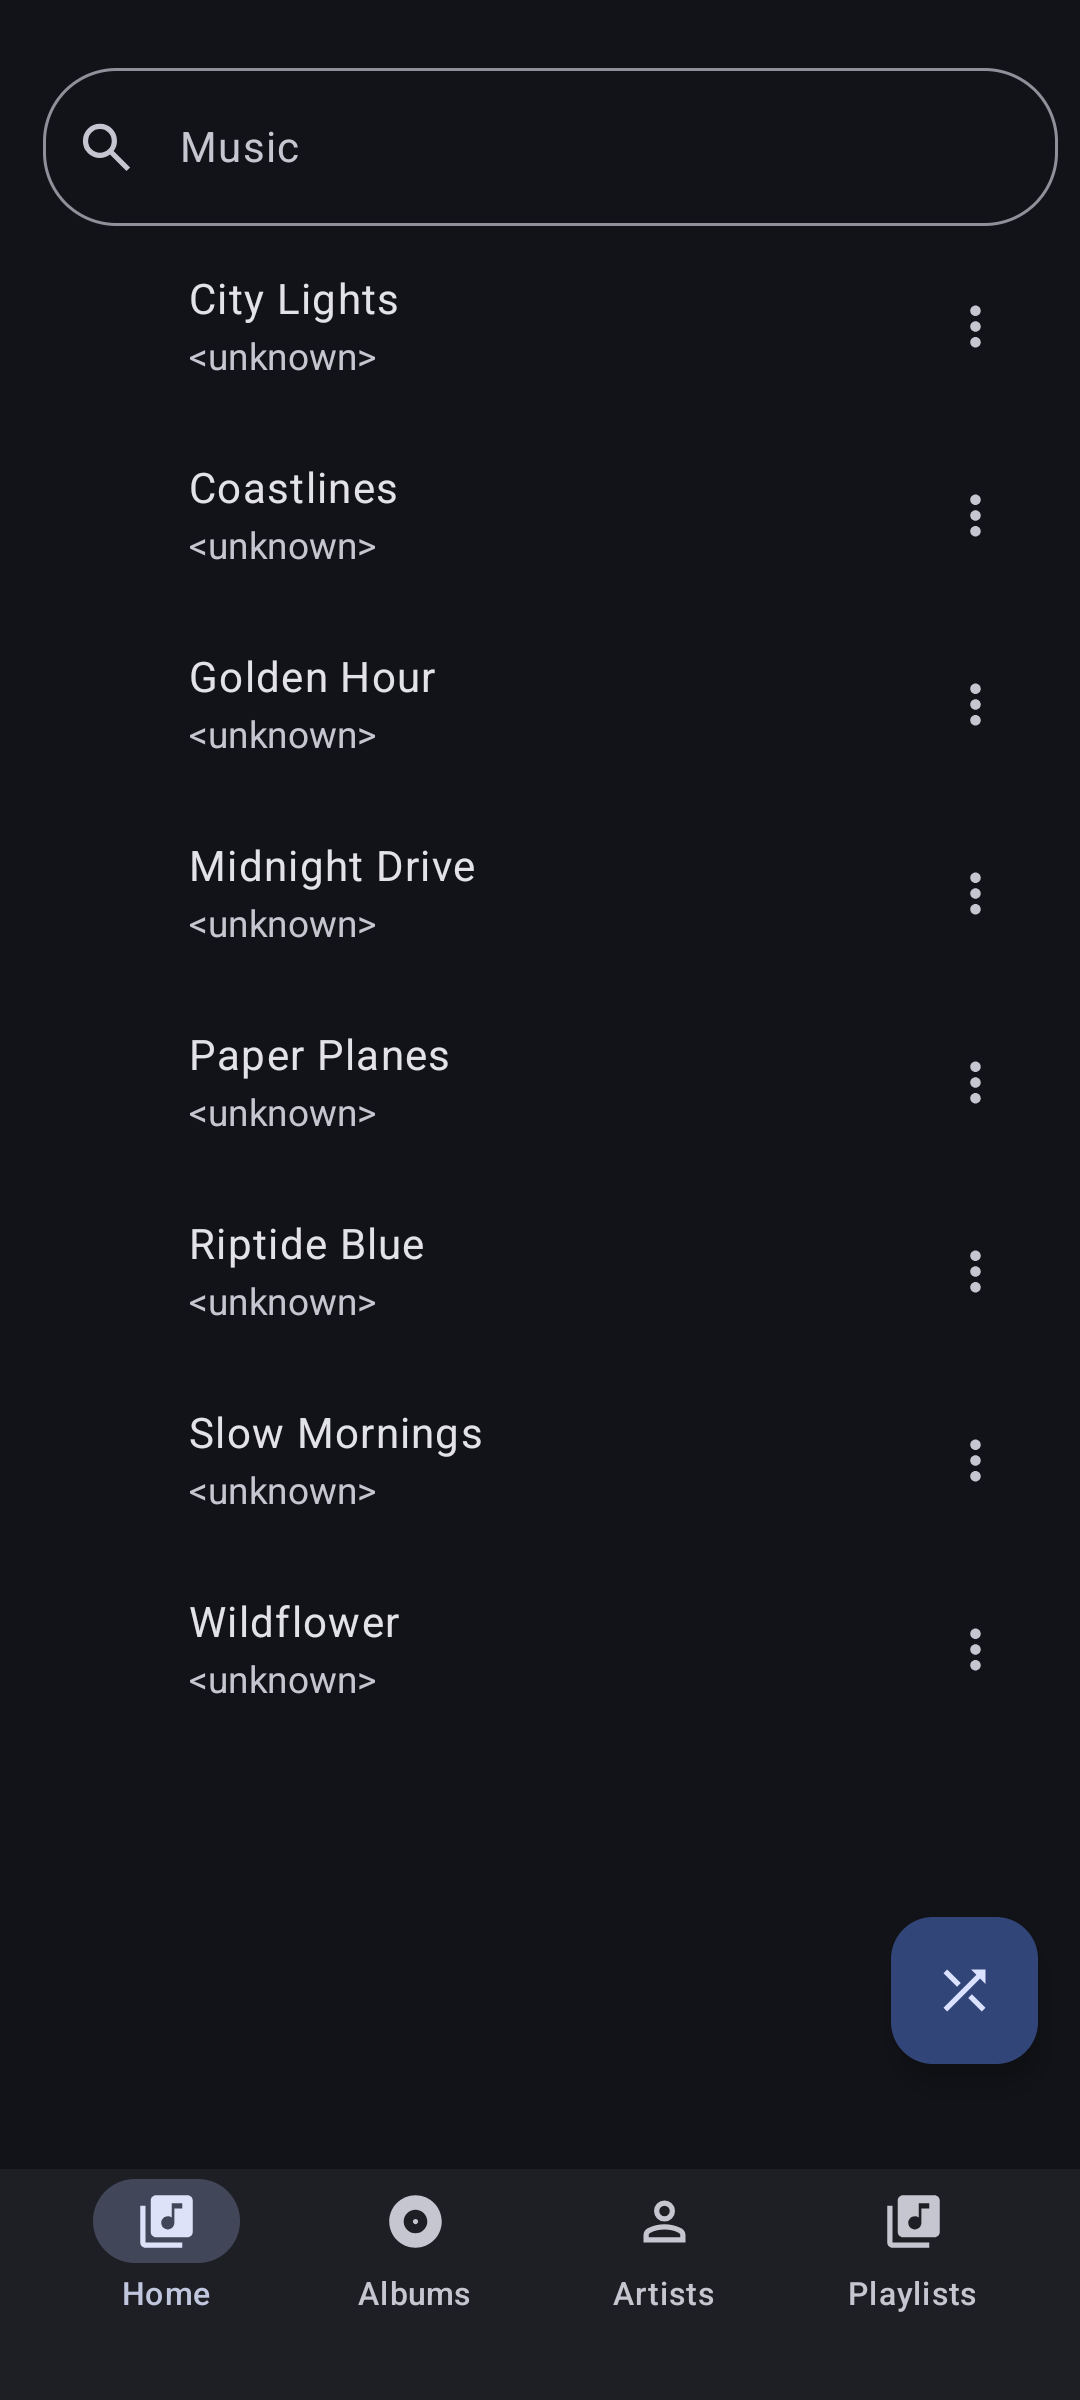
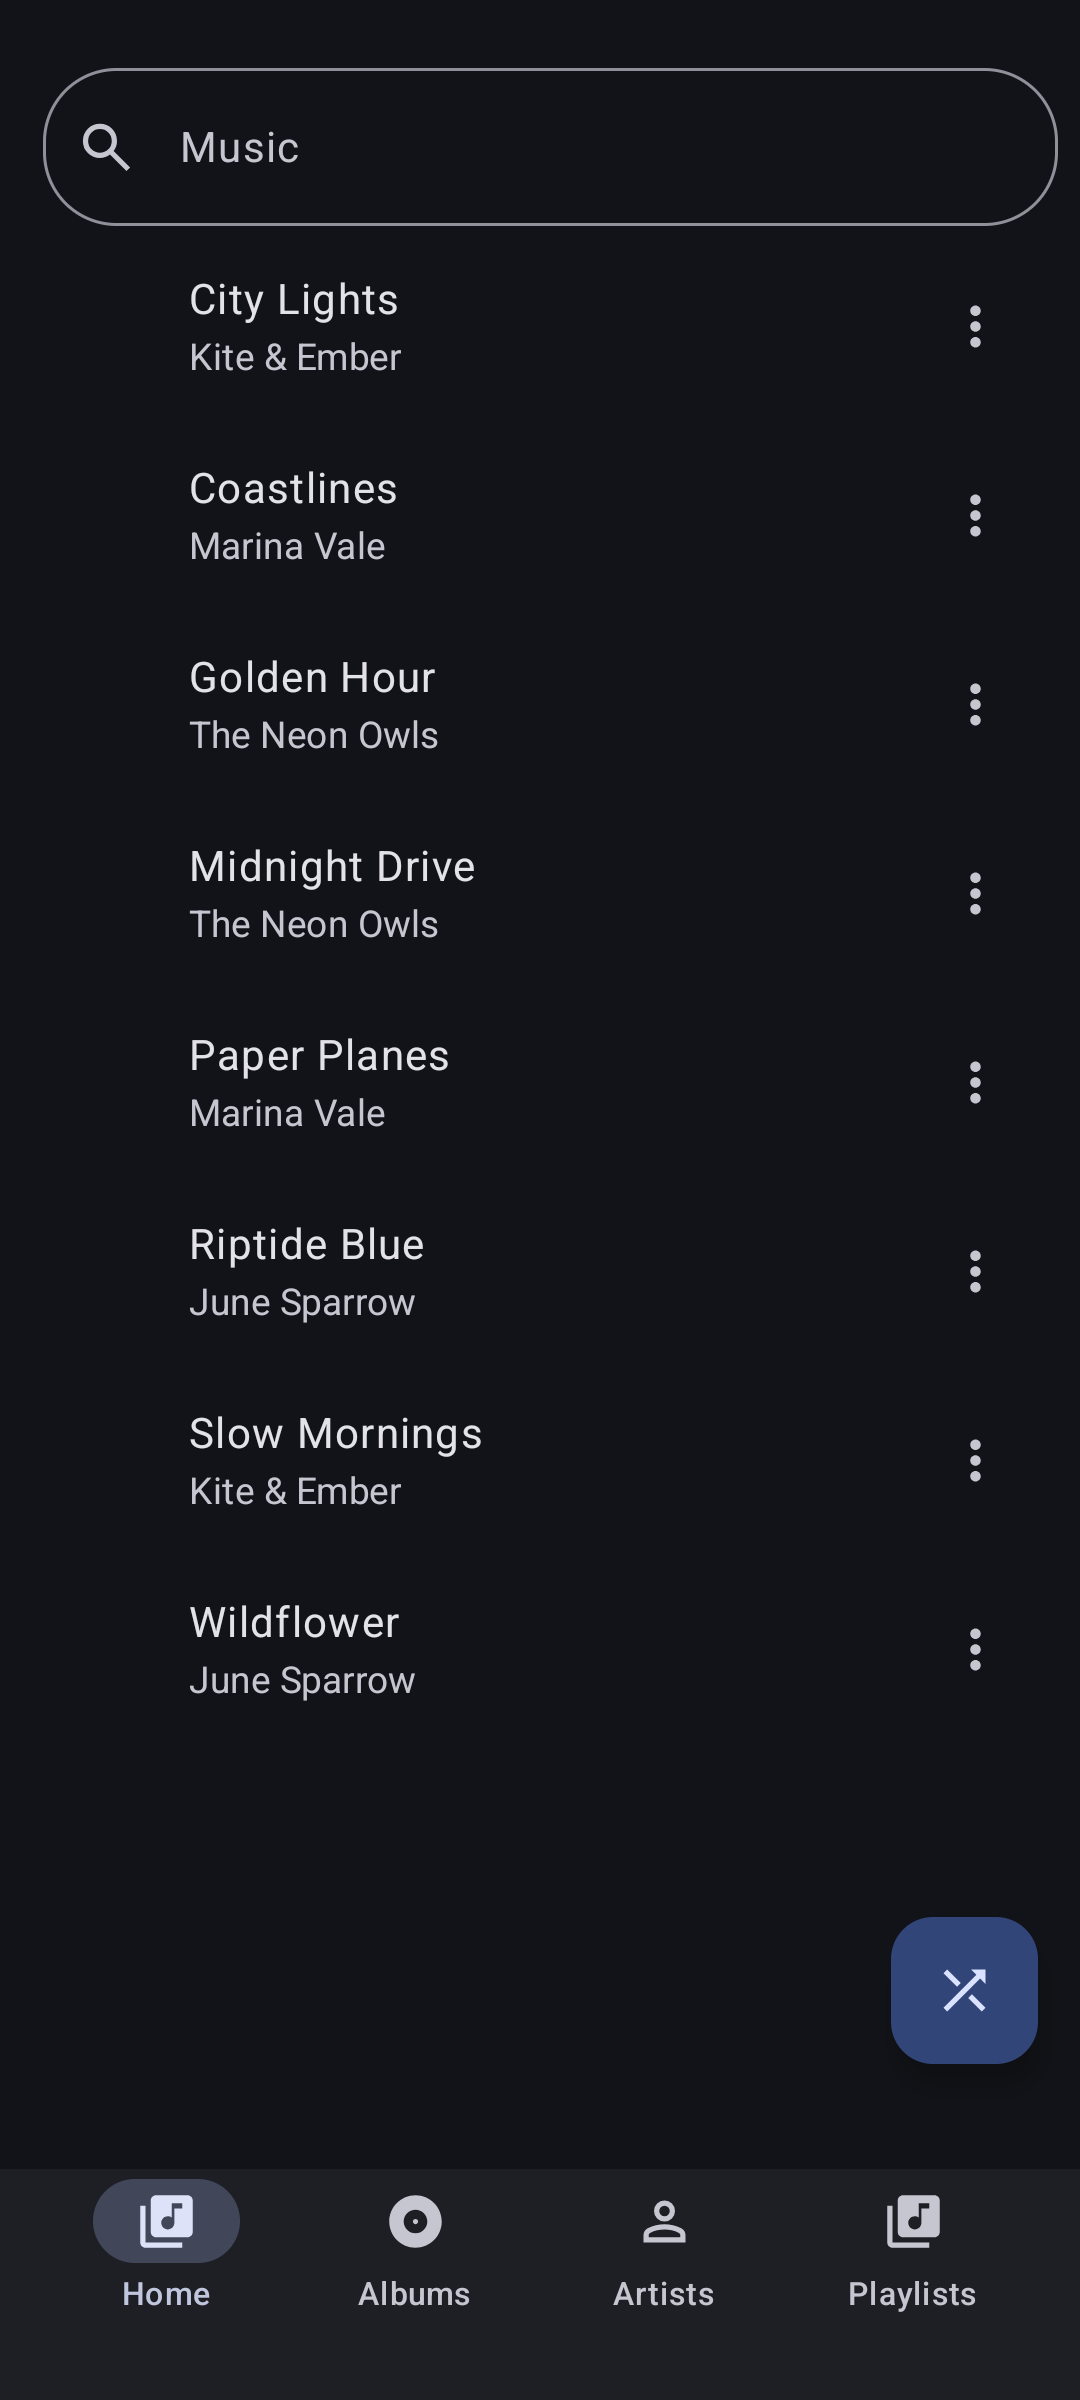
music: updated automated screenshot generation

diff --git a/music/src/androidTest/java/com/vayunmathur/music/MetadataScreenshots.kt b/music/src/androidTest/java/com/vayunmathur/music/MetadataScreenshots.kt
@@ -1,11 +1,15 @@
 package com.vayunmathur.music
 
 import android.content.ContentValues
+import android.media.MediaScannerConnection
+import android.os.Environment
 import android.provider.MediaStore
 import androidx.compose.ui.graphics.asAndroidBitmap
 import androidx.compose.ui.test.captureToImage
 import androidx.compose.ui.test.junit4.createEmptyComposeRule
+import androidx.compose.ui.test.onNodeWithText
 import androidx.compose.ui.test.onRoot
+import androidx.compose.ui.test.performClick
 import androidx.test.core.app.ActivityScenario
 import androidx.test.ext.junit.runners.AndroidJUnit4
 import androidx.test.platform.app.InstrumentationRegistry
@@ -16,13 +20,15 @@ import kotlinx.coroutines.runBlocking
 import org.junit.Rule
 import org.junit.Test
 import org.junit.runner.RunWith
+import java.io.ByteArrayOutputStream
 import java.io.File
-import java.nio.ByteBuffer
-import java.nio.ByteOrder
+import java.util.concurrent.CountDownLatch
+import java.util.concurrent.TimeUnit
 
 /**
- * Screenshot generator driven by `:music:metadata`. Seeds a few short WAV tracks (with
- * title/artist/album metadata) into MediaStore, indexes them, then captures the library.
+ * Screenshot generator driven by `:music:metadata`. Seeds a few short, TAGGED MP3s (ID3v2
+ * title/artist/album) into MediaStore so the scanner surfaces real metadata, indexes them,
+ * then captures the Songs / Albums / Artists tabs.
  */
 @RunWith(AndroidJUnit4::class)
 class MetadataScreenshots {
@@ -46,18 +52,53 @@ class MetadataScreenshots {
         }
     }
 
-    /** A valid 1-second silent mono 16-bit PCM WAV so MediaStore treats it as playable audio. */
-    private fun silentWav(): ByteArray {
-        val sampleRate = 8000
-        val numSamples = sampleRate // 1 second
-        val dataSize = numSamples * 2
-        val buf = ByteBuffer.allocate(44 + dataSize).order(ByteOrder.LITTLE_ENDIAN)
-        buf.put("RIFF".toByteArray()); buf.putInt(36 + dataSize); buf.put("WAVE".toByteArray())
-        buf.put("fmt ".toByteArray()); buf.putInt(16); buf.putShort(1); buf.putShort(1)
-        buf.putInt(sampleRate); buf.putInt(sampleRate * 2); buf.putShort(2); buf.putShort(16)
-        buf.put("data".toByteArray()); buf.putInt(dataSize)
-        // data left as zeros (silence)
-        return buf.array()
+    // --- Tagged MP3 synthesis -------------------------------------------------
+
+    private fun syncsafe(n: Int) = byteArrayOf(
+        ((n ushr 21) and 0x7F).toByte(),
+        ((n ushr 14) and 0x7F).toByte(),
+        ((n ushr 7) and 0x7F).toByte(),
+        (n and 0x7F).toByte(),
+    )
+
+    private fun be32(n: Int) = byteArrayOf(
+        (n ushr 24).toByte(), (n ushr 16).toByte(), (n ushr 8).toByte(), n.toByte(),
+    )
+
+    /** An ID3v2.3 text frame (ISO-8859-1 encoding byte + ASCII text). */
+    private fun textFrame(id: String, text: String): ByteArray {
+        val data = byteArrayOf(0x00) + text.toByteArray(Charsets.ISO_8859_1)
+        return id.toByteArray(Charsets.US_ASCII) + be32(data.size) + byteArrayOf(0, 0) + data
+    }
+
+    /**
+     * A minimal valid MP3: an ID3v2.3 tag (so MediaStore's scanner reads real
+     * title/artist/album) followed by ~1s of silent MPEG-1 Layer III frames
+     * (128 kbps, 44.1 kHz, stereo). All-zero frame bodies decode to silence.
+     */
+    private fun taggedMp3(title: String, artist: String, album: String): ByteArray {
+        val tagBody = textFrame("TIT2", title) + textFrame("TPE1", artist) + textFrame("TALB", album)
+        val id3 = "ID3".toByteArray(Charsets.US_ASCII) +
+            byteArrayOf(0x03, 0x00, 0x00) + syncsafe(tagBody.size) + tagBody
+
+        val frameHeader = byteArrayOf(0xFF.toByte(), 0xFB.toByte(), 0x90.toByte(), 0x00)
+        val frame = frameHeader + ByteArray(FRAME_SIZE - frameHeader.size)
+        val out = ByteArrayOutputStream()
+        out.write(id3)
+        repeat(NUM_FRAMES) { out.write(frame) }
+        return out.toByteArray()
+    }
+
+    // --- MediaStore seeding ---------------------------------------------------
+
+    /** Remove tracks seeded by a previous run so reruns don't accumulate duplicates. */
+    private fun deleteSeeded() {
+        val collection = MediaStore.Audio.Media.getContentUri(MediaStore.VOLUME_EXTERNAL_PRIMARY)
+        ctx.contentResolver.delete(
+            collection,
+            "${MediaStore.Audio.Media.RELATIVE_PATH} LIKE ?",
+            arrayOf("$REL_PATH%"),
+        )
     }
 
     private fun seedMusic() {
@@ -73,31 +114,41 @@ class MetadataScreenshots {
         )
         val resolver = ctx.contentResolver
         val collection = MediaStore.Audio.Media.getContentUri(MediaStore.VOLUME_EXTERNAL_PRIMARY)
-        val wav = silentWav()
+        val scanPaths = mutableListOf<String>()
         tracks.forEachIndexed { i, t ->
+            val fileName = "metadata_${i + 1}.mp3"
             val values = ContentValues().apply {
-                put(MediaStore.Audio.Media.DISPLAY_NAME, "${t.title}.wav")
-                put(MediaStore.Audio.Media.MIME_TYPE, "audio/x-wav")
-                put(MediaStore.Audio.Media.RELATIVE_PATH, "Music/Metadata")
-                put(MediaStore.Audio.Media.TITLE, t.title)
-                put(MediaStore.Audio.Media.ARTIST, t.artist)
-                put(MediaStore.Audio.Media.ALBUM, t.album)
-                put(MediaStore.Audio.Media.TRACK, i + 1)
+                put(MediaStore.Audio.Media.DISPLAY_NAME, fileName)
+                put(MediaStore.Audio.Media.MIME_TYPE, "audio/mpeg")
+                put(MediaStore.Audio.Media.RELATIVE_PATH, REL_PATH)
                 put(MediaStore.Audio.Media.IS_MUSIC, 1)
                 put(MediaStore.Audio.Media.IS_PENDING, 1)
             }
             val uri = resolver.insert(collection, values) ?: return@forEachIndexed
-            resolver.openOutputStream(uri)!!.use { it.write(wav) }
+            resolver.openOutputStream(uri)!!.use { it.write(taggedMp3(t.title, t.artist, t.album)) }
             values.clear()
             values.put(MediaStore.Audio.Media.IS_PENDING, 0)
             resolver.update(uri, values, null, null)
+            scanPaths += File(
+                Environment.getExternalStorageDirectory(),
+                "$REL_PATH$fileName",
+            ).absolutePath
         }
+
+        // Force the media scanner to parse the ID3 tags before we index, so
+        // TITLE/ARTIST/ALBUM are populated (not "<unknown>") when syncMusic runs.
+        val latch = CountDownLatch(scanPaths.size)
+        MediaScannerConnection.scanFile(ctx, scanPaths.toTypedArray(), null) { _, _ ->
+            latch.countDown()
+        }
+        latch.await(20, TimeUnit.SECONDS)
     }
 
     private data class Track(val title: String, val artist: String, val album: String)
 
     @Test
     fun generateStoreScreenshots() {
+        deleteSeeded()
         seedMusic()
         // Index MediaStore into the app's Room DB directly (shares the cached instance
         // the app uses), so the library populates deterministically.
@@ -106,7 +157,25 @@ class MetadataScreenshots {
 
         ActivityScenario.launch(MainActivity::class.java).use {
             Thread.sleep(4000)
-            snap(1)
+            snap(1) // Songs
+
+            composeRule.onNodeWithText("Albums").performClick()
+            composeRule.waitForIdle()
+            Thread.sleep(1500)
+            snap(2) // Albums
+
+            composeRule.onNodeWithText("Artists").performClick()
+            composeRule.waitForIdle()
+            Thread.sleep(1500)
+            snap(3) // Artists
         }
+    }
+
+    companion object {
+        private const val REL_PATH = "Music/Metadata/"
+        // MPEG-1 Layer III, 128 kbps, 44.1 kHz => floor(144*128000/44100) = 417 bytes/frame.
+        private const val FRAME_SIZE = 417
+        // ~1s of audio (1152 samples/frame at 44.1 kHz => ~26 ms/frame).
+        private const val NUM_FRAMES = 40
     }
 }